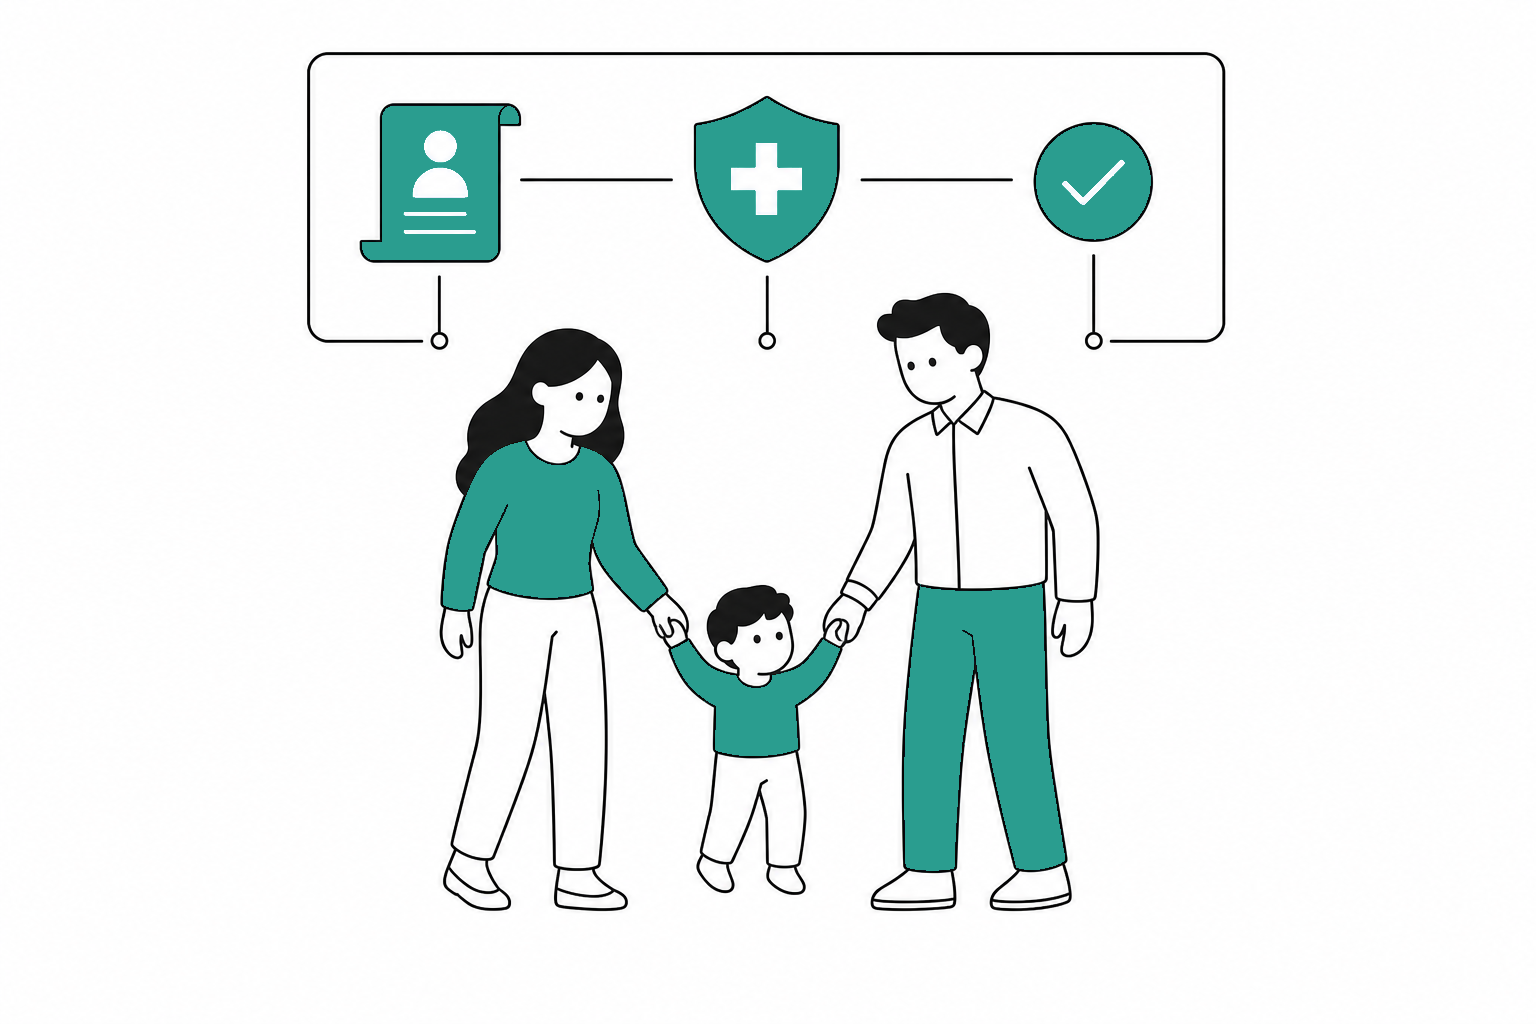
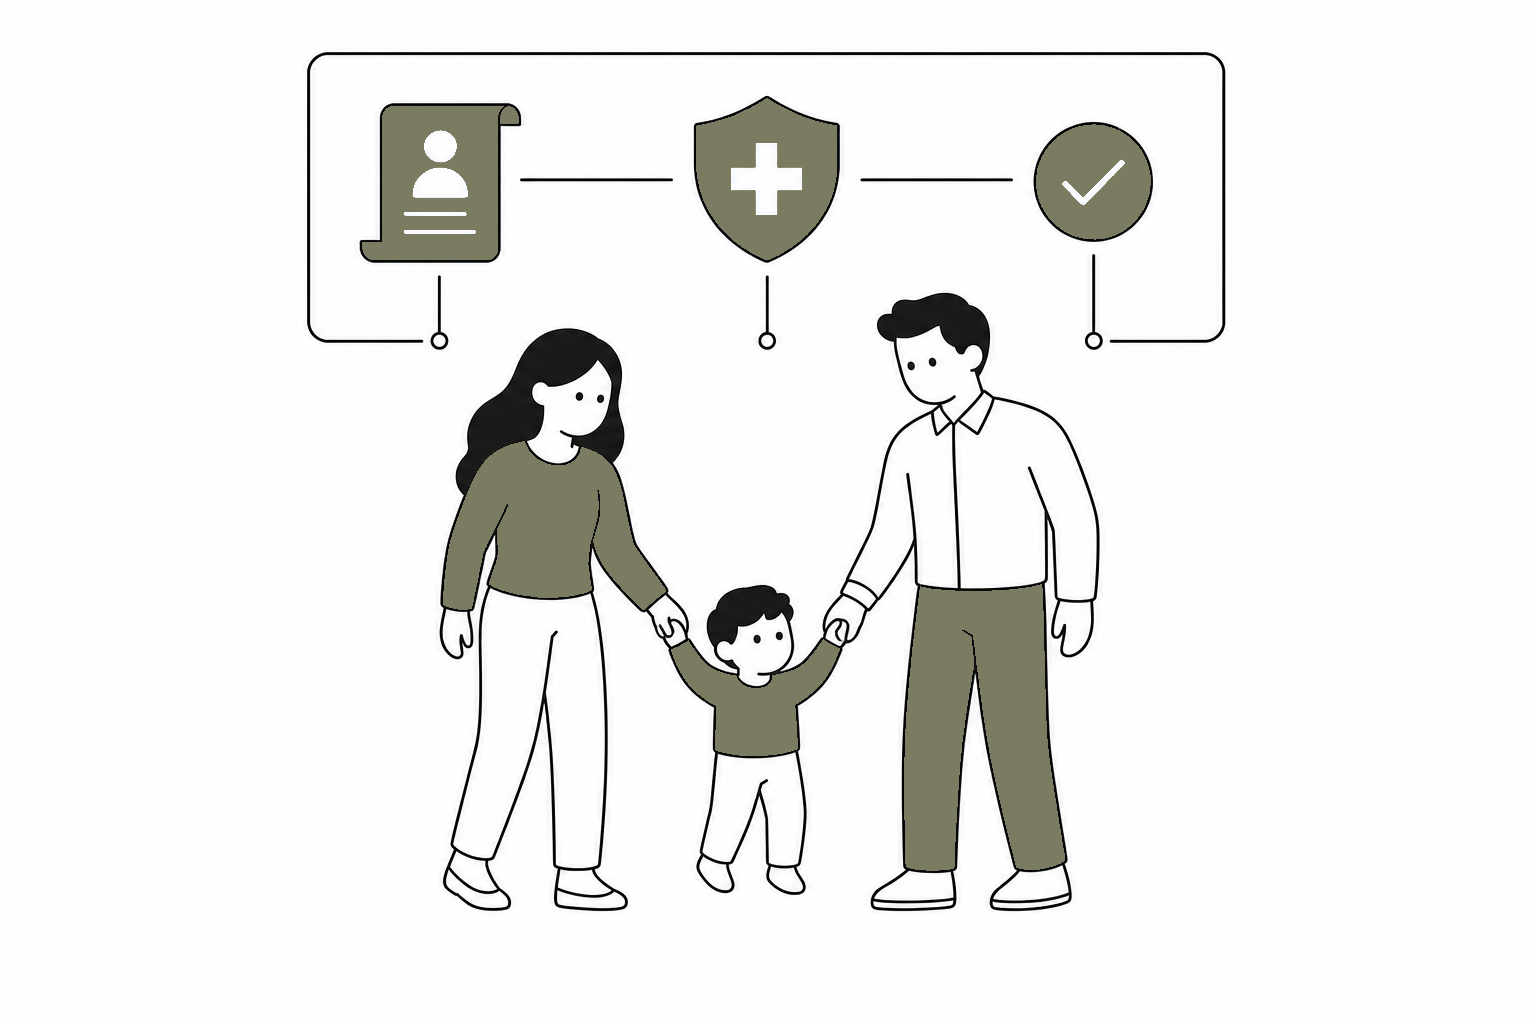
fix(mobile): cream reading card, oval Ask composer, Moss onboarding art
Remove Sage wash from Today reading bubble so it matches cream cards.
Put Ask input in a full-width oval with icon mic + send. Recolor
onboarding PNGs from Claro teal to Earth Wellness Moss/Sage.

diff --git a/apps/mobile/src/components/AskChatPanel.tsx b/apps/mobile/src/components/AskChatPanel.tsx
@@ -1,6 +1,7 @@
 import { useCallback, useEffect, useMemo, useState, type ReactNode } from 'react';
 import { Pressable, ScrollView, StyleSheet, Text, TextInput, View } from 'react-native';
 import { router } from 'expo-router';
+import { Ionicons } from '@expo/vector-icons';
 import { ASK_SUGGESTION_IDS, type AskMessage, type AskSuggestionId } from '@allerguide/core';
 import { ActionChip } from '@/src/components/ActionChip';
 import { GlassCard } from '@/src/components/GlassCard';
@@ -133,9 +134,14 @@ export function useAskChat({
           />
         ))}
       </View>
-      <View style={styles.inputRow}>
+      <View style={styles.ovalRow}>
         {voiceSupported ? (
-          <VoiceNoteButton testID="ask-voice" disabled={busy} onTranscript={onVoiceTranscript} />
+          <VoiceNoteButton
+            testID="ask-voice"
+            variant="icon"
+            disabled={busy}
+            onTranscript={onVoiceTranscript}
+          />
         ) : null}
         <TextInput
           testID="ask-input"
@@ -143,20 +149,30 @@ export function useAskChat({
           onChangeText={setDraft}
           placeholder={t('ask.inputPlaceholder')}
           placeholderTextColor={theme.colors.textMuted}
-          style={styles.input}
+          style={styles.ovalInput}
           editable={!busy}
           multiline
           maxLength={500}
           accessibilityLabel={t('ask.inputPlaceholder')}
         />
-        <Button
+        <Pressable
           testID="ask-send"
-          label={t('ask.send')}
-          variant="primary"
-          size="sm"
+          accessibilityRole="button"
+          accessibilityLabel={t('ask.send')}
           disabled={busy || !draft.trim()}
           onPress={() => void send(draft)}
-        />
+          style={[
+            styles.sendBtn,
+            (busy || !draft.trim()) && styles.sendBtnDisabled,
+          ]}>
+          <Ionicons
+            name="send"
+            size={18}
+            color={
+              busy || !draft.trim() ? theme.colors.textMuted : theme.colors.onAccent
+            }
+          />
+        </Pressable>
       </View>
       {!AI_CHAT_ENABLED ? (
         <Text style={styles.flagHint} testID="ask-offline-mode-hint">
@@ -303,24 +319,42 @@ function createStyles({ colors, fonts }: AppTheme) {
     },
     composer: { gap: 8 },
     chipRow: { flexDirection: 'row', flexWrap: 'wrap', gap: 8 },
-    inputRow: {
+    ovalRow: {
       flexDirection: 'row',
       alignItems: 'flex-end',
-      gap: 8,
-    },
-    input: {
-      flex: 1,
-      minHeight: density.tapMinHeight,
-      maxHeight: 96,
-      borderRadius: radii.sm,
+      gap: 6,
+      minHeight: density.tapMinHeight + 4,
+      maxHeight: 104,
+      borderRadius: radii.full,
       borderWidth: 1,
       borderColor: colors.border,
-      backgroundColor: colors.card,
-      paddingHorizontal: 12,
+      backgroundColor: colors.surfaceMuted,
+      paddingLeft: 6,
+      paddingRight: 6,
+      paddingVertical: 4,
+      width: '100%',
+    },
+    ovalInput: {
+      flex: 1,
+      minHeight: density.tapMinHeight - 4,
+      maxHeight: 88,
+      paddingHorizontal: 8,
       paddingVertical: 10,
       fontFamily: fonts.sans,
       fontSize: WEB_INPUT_FONT_SIZE,
       color: colors.text,
+    },
+    sendBtn: {
+      width: 40,
+      height: 40,
+      borderRadius: 20,
+      alignItems: 'center',
+      justifyContent: 'center',
+      backgroundColor: colors.accent,
+      marginBottom: 2,
+    },
+    sendBtnDisabled: {
+      backgroundColor: colors.border,
     },
     flagHint: {
       fontFamily: fonts.sans,

diff --git a/apps/mobile/src/components/VoiceNoteButton.tsx b/apps/mobile/src/components/VoiceNoteButton.tsx
@@ -17,14 +17,25 @@ interface VoiceNoteButtonProps {
   onTranscript: (transcript: string) => void;
   disabled?: boolean;
   testID?: string;
+  /**
+   * `bar` — labeled mic row (diary / standalone).
+   * `icon` — circular mic for embedding inside an Ask oval composer.
+   */
+  variant?: 'bar' | 'icon';
 }
 
-export function VoiceNoteButton({ onTranscript, disabled, testID }: VoiceNoteButtonProps) {
+export function VoiceNoteButton({
+  onTranscript,
+  disabled,
+  testID,
+  variant = 'bar',
+}: VoiceNoteButtonProps) {
   const theme = useTheme();
   const styles = useMemo(() => createStyles(theme), [theme]);
   const { t, locale } = useTranslation();
   const [state, setState] = useState<VoiceDictationState>('idle');
   const supported = isVoiceInputSupported();
+  const iconOnly = variant === 'icon';
 
   const handleError = useCallback(
     (code: string) => {
@@ -73,6 +84,7 @@ export function VoiceNoteButton({ onTranscript, disabled, testID }: VoiceNoteBut
   }, []);
 
   if (!supported) {
+    if (iconOnly) return null;
     return (
       <Text style={styles.hint} testID={testID ? `${testID}-unsupported` : undefined}>
         {t('voiceNote.notSupported')}
@@ -82,6 +94,33 @@ export function VoiceNoteButton({ onTranscript, disabled, testID }: VoiceNoteBut
 
   const isListening = state === 'listening';
   const isProcessing = state === 'processing';
+  const a11yLabel = isListening
+    ? t('voiceNote.stopRecording')
+    : isProcessing
+      ? t('voiceNote.processing')
+      : t('voiceNote.startRecording');
+
+  if (iconOnly) {
+    return (
+      <Pressable
+        style={[
+          styles.iconBtn,
+          isListening && styles.iconBtnActive,
+          (disabled || isProcessing) && styles.micBtnDisabled,
+        ]}
+        disabled={disabled || isProcessing}
+        onPress={() => void toggle()}
+        accessibilityRole="button"
+        accessibilityLabel={a11yLabel}
+        testID={testID ? `${testID}-mic` : 'voice-note-mic'}>
+        {isListening || isProcessing ? (
+          <ActivityIndicator color={isListening ? theme.colors.danger : theme.colors.accent} size="small" />
+        ) : (
+          <Ionicons name="mic" size={22} color={theme.colors.accent} />
+        )}
+      </Pressable>
+    );
+  }
 
   return (
     <View style={styles.wrap} testID={testID}>
@@ -94,13 +133,7 @@ export function VoiceNoteButton({ onTranscript, disabled, testID }: VoiceNoteBut
         disabled={disabled || isProcessing}
         onPress={() => void toggle()}
         accessibilityRole="button"
-        accessibilityLabel={
-          isListening
-            ? t('voiceNote.stopRecording')
-            : isProcessing
-              ? t('voiceNote.processing')
-              : t('voiceNote.startRecording')
-        }
+        accessibilityLabel={a11yLabel}
         testID={testID ? `${testID}-mic` : 'voice-note-mic'}>
         {isListening || isProcessing ? (
           <ActivityIndicator color={isListening ? theme.colors.danger : theme.colors.accent} size="small" />
@@ -154,6 +187,16 @@ function createStyles({ colors, fonts }: AppTheme) {
       backgroundColor: colors.card,
     },
     micBtnDisabled: { opacity: 0.5 },
+    iconBtn: {
+      width: 40,
+      height: 40,
+      borderRadius: 20,
+      alignItems: 'center',
+      justifyContent: 'center',
+    },
+    iconBtnActive: {
+      backgroundColor: colors.dangerLight,
+    },
     micLabel: {
       fontFamily: fonts.sansSemiBold,
       fontSize: 13,

diff --git a/apps/mobile/src/components/DailyReadingCard.tsx b/apps/mobile/src/components/DailyReadingCard.tsx
@@ -5,29 +5,8 @@ import { GlassCard } from '@/src/components/GlassCard';
 import { CardTitle } from '@/src/components/CardTitle';
 import { Button } from '@/src/components/Button';
 import { fontSizes, lineHeights, textStyles } from '@/src/constants/typography';
-import { radii } from '@/src/constants/layout';
 import { useTheme, type AppTheme } from '@/src/hooks/use-theme';
 import type { TodayReading } from '@/src/services/today-reading-service';
-import type { Zone } from '@/src/hooks/use-zone-colors';
-
-/**
- * Red stays reserved for the SOS control and the «avoid» verdict (north-star §3.3),
- * so a careful day warms the surface instead of alarming it.
- */
-const ZONE_BY_TONE: Record<TodayReading['tone'], Zone | null> = {
-  calm: null,
-  watch: 'attention',
-  careful: 'attention',
-};
-
-/**
- * Decorative Calm wash — north-star N10. These hex values are atmosphere, not
- * CTA/text. Keep them in the mockup (`docs/wellness-ux-north-star.html`) and in
- * `docs/brand-claro-green.md` so a third teal does not appear.
- */
-const READING_WASH_LIGHT = '#DCEEE4';
-const READING_WASH_WARM = '#F7F1E6';
-const READING_WASH_DARK = '#1A3A32';
 
 type DailyReadingCardProps = {
   reading: TodayReading;
@@ -37,18 +16,14 @@ type DailyReadingCardProps = {
 
 /**
  * The daily reading: two plain-language sentences plus one next step.
- * Replaces the score-first hero as the opening block of Today (north-star §4.1).
+ * Uses the same cream card surface as sibling Today bubbles (no soft Sage wash).
  */
 export function DailyReadingCard({ reading, showAction = true }: DailyReadingCardProps) {
   const theme = useTheme();
   const styles = useMemo(() => createStyles(theme), [theme]);
-  const wash = theme.isDark ? READING_WASH_DARK : READING_WASH_LIGHT;
-  const washWarm = theme.isDark ? READING_WASH_DARK : READING_WASH_WARM;
 
   return (
-    <GlassCard testID="today-reading" variant="soft" zone={ZONE_BY_TONE[reading.tone]} style={styles.card}>
-      <View pointerEvents="none" style={[styles.wash, { backgroundColor: wash }]} />
-      <View pointerEvents="none" style={[styles.washWarm, { backgroundColor: washWarm }]} />
+    <GlassCard testID="today-reading" style={styles.card}>
       <View style={styles.content}>
         <CardTitle>{reading.title}</CardTitle>
         <View accessibilityRole="summary" style={styles.body}>
@@ -71,26 +46,8 @@ export function DailyReadingCard({ reading, showAction = true }: DailyReadingCar
 
 function createStyles({ colors, fonts }: AppTheme) {
   return StyleSheet.create({
-    card: { overflow: 'hidden', position: 'relative' },
-    wash: {
-      position: 'absolute',
-      top: -24,
-      left: -16,
-      width: 160,
-      height: 120,
-      borderRadius: radii.xl,
-      opacity: 0.55,
-    },
-    washWarm: {
-      position: 'absolute',
-      right: -28,
-      bottom: -36,
-      width: 140,
-      height: 110,
-      borderRadius: radii.xl,
-      opacity: 0.4,
-    },
-    content: { position: 'relative' },
+    card: {},
+    content: { gap: 0 },
     body: { gap: 6, marginBottom: 12 },
     lead: {
       ...textStyles.reading,

diff --git a/apps/mobile/src/components/onboarding/OnboardingSlideImage.tsx b/apps/mobile/src/components/onboarding/OnboardingSlideImage.tsx
@@ -16,7 +16,7 @@ type OnboardingSlideImageProps = {
   height?: number;
 };
 
-/** Raster onboarding art — one dedicated Claro teal illustration per slide. */
+/** Raster onboarding art — Earth Wellness Moss/Sage accents per slide. */
 export function OnboardingSlideImage({ slide, width = 280, height = 220 }: OnboardingSlideImageProps) {
   return (
     <View style={[styles.frame, { width, height }]}>
